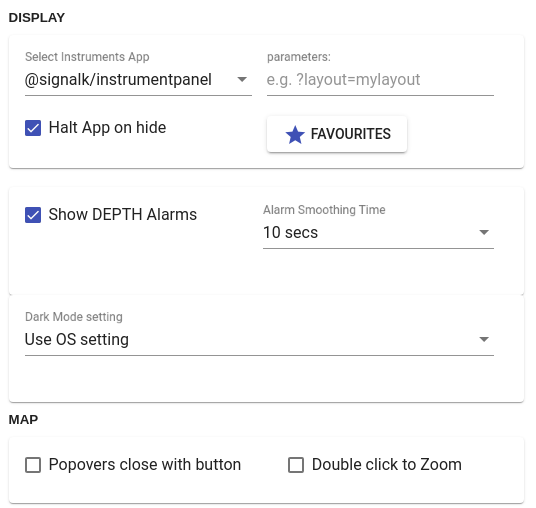
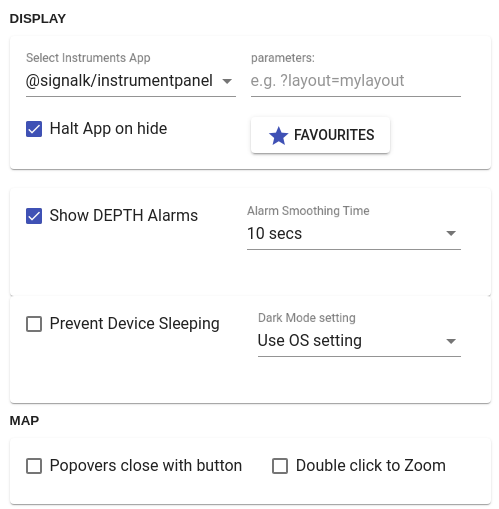
update help

diff --git a/src/assets/help/index.html b/src/assets/help/index.html
@@ -166,61 +166,145 @@
                     <img src="./img/screen.png" style="height:400px;"/>
                     <br>
                     The menu bar along the left of the screen provides access to functions and
-                    menus that allow you control the map display.
-                    <li class="nobullet"><i class="material-icons">navigation</i>
-                        <b>Heading / North Up:</b>
-                        Toggles between <i>Heading / North Up</i> mode.
-                    </li>                        
-                    <li class="nobullet"><i class="material-icons">my_location</i>
-                        <b>Follow Vessel On / Off:</b>
-                        Toggles <i>Follow Vessel</i> mode to keep the vessel at the centre of the 
-                        screen.<br>
-                        <i>Note: this option is disabled when vessel position is not available.</i>
-                    </li>
-                    <li class="nobullet"><i class="material-icons">center_focus_strong</i>
-                        <b>Centre Vessel on screen:</b> 
-                        <i>Note: This option is disabled when vessel position is not available.</i>
-                    </li>     
-                    <li class="nobullet"><i class="material-icons">more_horiz</i>
-                        <b>More Actions:</b>
+                    menus that allow you control the map display. <br>
+                    The buttons along the right side
+                    provide access to quick-actions and experiments.
+                    <p>
+                        <b>Left menu bar:</b>
                         <ul>
-                            <li>Clear / Refresh Vessel Trail: When trail is available from the server
-                                selecting this menu item will reload the trail from the server.
+                            
+                            <li class="nobullet"><i class="material-icons">menu</i>
+                                <b>Main Menu:</b>
+                                Displays the main menu. <i>(See <a href="#menus">menus</a> for more.)</i>
+                            </li>  
+                            <li class="nobullet"><i class="material-icons" style="color:red;">warning</i>
+                                <b>Alarms:</b>
+                                Displays the alarms screen to raise / clear alarms. <i>(See <a href="#alarms">alarms</a> for more.)</i>
+                            </li>  
+                            <li class="nobullet"><i class="material-icons" style="color:green;">layers</i>
+                                <b>Resources:</b>
+                                Provides access to resources such as Charts, Routes, Waypoints, etc. <i>(See <a href="#resources">resources</a> for more.)</i>
+                            </li>  
+                            <li class="nobullet"><i class="material-icons">edit</i>
+                                <b>Draw Menu:</b>
+                                Provides access to options that allow the drawing / editing of resources.
+                                <i>(See <a href="#menus">menus</a> for more.)</i>
+                            </li>  
+                            <li class="nobullet"><i class="material-icons">navigation</i>
+                                <b>Heading / North Up:</b>
+                                Toggles between <i>Heading / North Up</i> mode.
+                            </li>                        
+                            <li class="nobullet"><i class="material-icons">my_location</i>
+                                <b>Follow Vessel On / Off:</b>
+                                Toggles <i>Follow Vessel</i> mode to keep the vessel at the centre of the 
+                                screen.<br>
+                                <i>Note: this option is disabled when vessel position is not available.</i>
                             </li>
-                            <li>Clear Destintation / Active Route: clears active destination or de-activates
-                                an active route.
-                            </li>
-                            <li>Clear Course Data: clears the current course data.</li>
-                            <li>Trail to Route: create a route from the current vessel trail.</li>
-                            <li>Show / Hide Course Data: Toggle the display of course data.</li>
-                            <li>Show / Hide Vessels: Toggle the display of other vessels.</li>                        
-                            <li>Show / Hide Notes: Toggle the display of notes.</li>
-                            <li>Settings: Open the <a href="#settings">Settings</a> screen.</li>
+                            <li class="nobullet"><i class="material-icons">center_focus_strong</i>
+                                <b>Centre Vessel on screen:</b> 
+                                <i>Note: This option is disabled when vessel position is not available.</i>
+                            </li>  
+                            <hr>
+                            <li class="nobullet"><i class="material-icons">more_horiz</i>
+                                <b>More Actions:</b> Provides access to the following options:
+                                
+                                <ul>
+                                    <li>Clear / Refresh Vessel Trail: When trail is available from the server
+                                        selecting this menu item will reload the trail from the server.
+                                    </li>
+                                    <li>Clear Destintation / Active Route: clears active destination or de-activates
+                                        an active route.
+                                    </li>
+                                    <li>Clear Course Data: clears the current course data.</li>
+                                    <li>Trail to Route: create a route from the current vessel trail.</li>
+                                    <li>Show / Hide Course Data: Toggle the display of course data.</li>
+                                    <li>Show / Hide Vessels: Toggle the display of other vessels.</li>                        
+                                    <li>Show / Hide Notes: Toggle the display of notes.</li>
+                                    <li>Settings: Open the <a href="#settings">Settings</a> screen.</li>
+                                </ul>
+                            </li>  
                         </ul>
-                    </li>     
+                    </p>
+
+                    <p>
+                        <b>Right menu bar:</b>
+                        <ul>
+                            <li class="nobullet"><i class="material-icons">av_timer</i>
+                                <b>Instrument panel:</b> The instrument panel is used to display selected Web App(s) installed on
+                                the Signal K server.<br>
+                                <i>The default instruments shown are <b>@signalk/instrumentpanel</b></i><br>
+                                Use the <a href="#settings">Settings</a> screen to:
+                                <ul>
+                                    <li>Select the Web App to display</li>
+                                    <li>Select one or more <i>Favourites</i> that can be switched into view by using the
+                                        <i class="material-icons">arrow_back_ios</i> and <i class="material-icons">arrow_forward_ios</i>
+                                        buttons.
+                                    </li>
+                                    <li>
+                                        You can also open the displayed Web App in it's own window by clicking 
+                                        the <i class="material-icons">open_in_new</i> button.
+                                    </li>
+                                </ul>
+                            </li> 
+
+                            <li class="nobullet">
+                                <i class="material-icons" style="color:red;">volume_off</i>
+                                <b>Web Audio Off:</b>
+                                Displays if browser audio is NOT activated. If displayed then no alarm sounds will be 
+                                audible.<br>
+                                Click this button to enable web audio to hear alarm sounds.
+                            </li>
+
+                            <li class="nobullet">
+                                <i class="material-icons">fullscreen</i>
+                                <b>Fullscreen mode:</b>
+                                Displays application in fullscreen mode.<br>
+                                <i>Available only on supported devices.</i>
+                            </li>
+
+                            <li class="nobullet">
+                                <i class="material-icons">visibility_off</i>
+                                <b>Prevent Device Sleep:</b>
+                                Sets 'Wake Lock' mode for the current session to prevent the device from entering sleep mode when no user input has been 
+                                received. See <a href="#settings">Settings</a> for more.<br>
+                                <i>Available only on supported devices.</i>
+                            </li>
+
+                            <li class="nobullet">
+                                <i class="material-icons">science</i>
+                                <b>Experiments:</b>
+                                Provides access to experimental features which are being considered for inclusion
+                                into the main application.
+                                See <a href="#experiments">experiments</a> for more.<br>
+                            </li>
+
+                            <li class="nobullet">
+                                <i class="material-icons">videocam</i>
+                                <b>Video:</b>
+                                Displays the video stream that has been configured in
+                                 <a href="#settings">settings</a>.<br>
+                                <i>Available only on supported devices.</i>
+                            </li>
+
+                            <li class="nobullet">
+                                <i class="material-icons">add_location</i>
+                                <b>Drop Waypoint:</b>
+                                Place new waypoint at vessel location.
+                            </li>
+                        </ul>
+                    </p>
+                    <hr>
                     <li><b>Context "Right click" Menu :</b> 
                         Click the right mouse button anywhere on the map to display 
-                        a context menu. The options available may vary based on the current 
+                        a context menu. <br>
+                        The options available may vary based on the current 
                         application state.<br>
                         <img src="./img/context_menu.png" style="max-width:190px;"/><br>
                         <i>Note:The <b>Add Note here"</b> option is only available at zoom levels where 
                             Notes are visible on the map.
                         </i>
                         <br>&nbsp;
-                    </li>    
-                    <li class="nobullet"><i class="material-icons">av_timer</i>
-                        <b>Instrument panel:</b> The instrument panel is used to display selected Web App(s) installed on
-                        the Signal K server.<br>
-                        <i>The default instruments shown are <b>@signalk/instrumentpanel</b></i><br>
-                        Use the <a href="#settings">Settings</a> screen to:
-                        <li>Select the Web App to display</li>
-                        <li>Select one or more <i>Favourites</i> that can be switched into view by using the
-                            <i class="material-icons">arrow_back_ios</i> and <i class="material-icons">arrow_forward_ios</i>
-                            buttons.
-                        </li>
-                        You can also open the displayed Web App in it's own window by clicking 
-                        the <i class="material-icons">open_in_new</i> button.
-                    </li>                                                               
+                    </li>                                                                  
                 </p>
                 <p>
                     <img src="../img/ship_red.png" style="height:30px;"/>
@@ -1003,7 +1087,15 @@
                             state has returned to <i>Normal</i>, this is the 
                             length of time that the notification must remain in <i>Normal</i> state
                             before the alarm is re-triggered.
-                        </li>                                  
+                        </li>
+                        <li><b>Prevent Device Sleeping</b>: 
+                            Check this option to set the devices <i>WakeLock</i> upon start-up which prevents your device 
+                            from entering sleep mode.<br>
+                            <i>Note: this setting is only available on devices / browsers which support the API.</i>
+                            <br>
+                            This can be set for the current session by clicking the 
+                            <b><i class="material-icons">visibility_off</i></b> button on the right of screen.
+                        </li>                          
                         <li><b>Dark Mode Setting</b>: 
                             Use this setting to control the display theme (Light or Dark).<br>
                             <ul>
